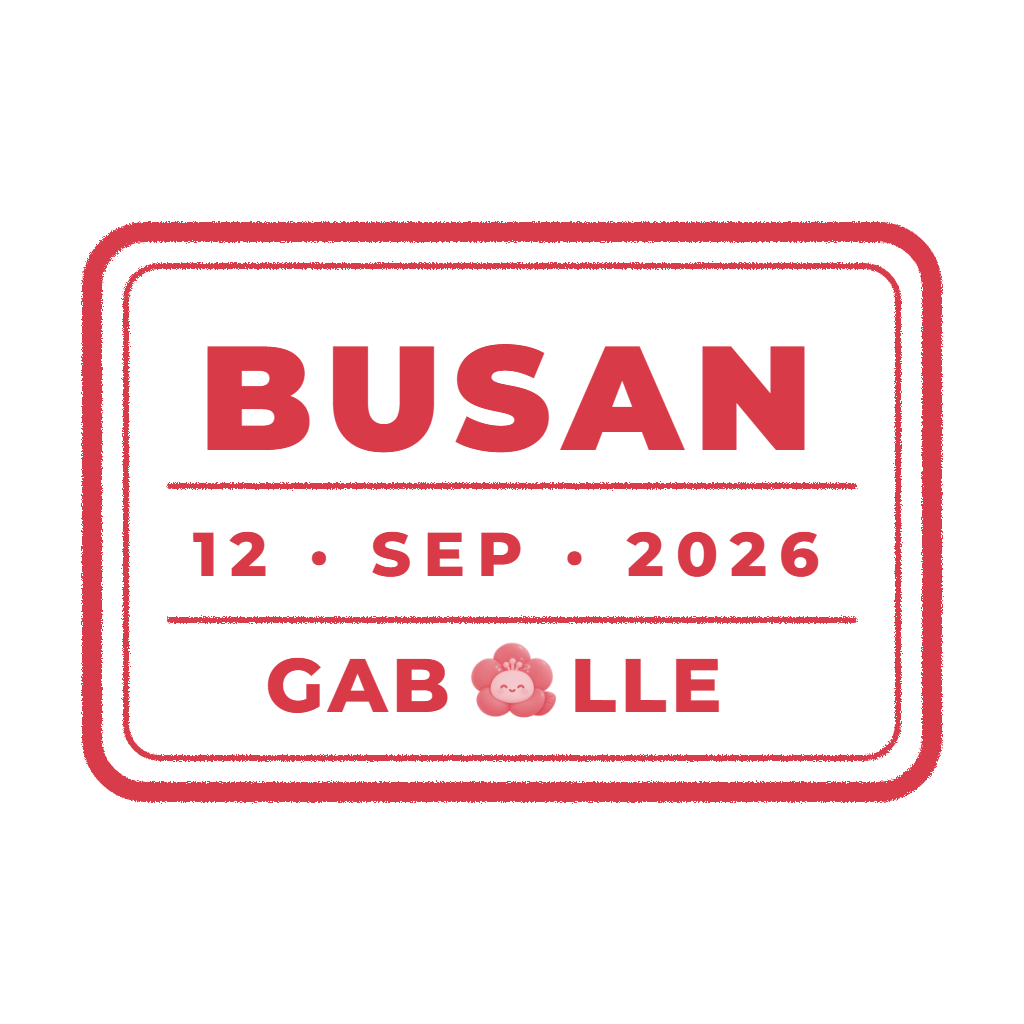
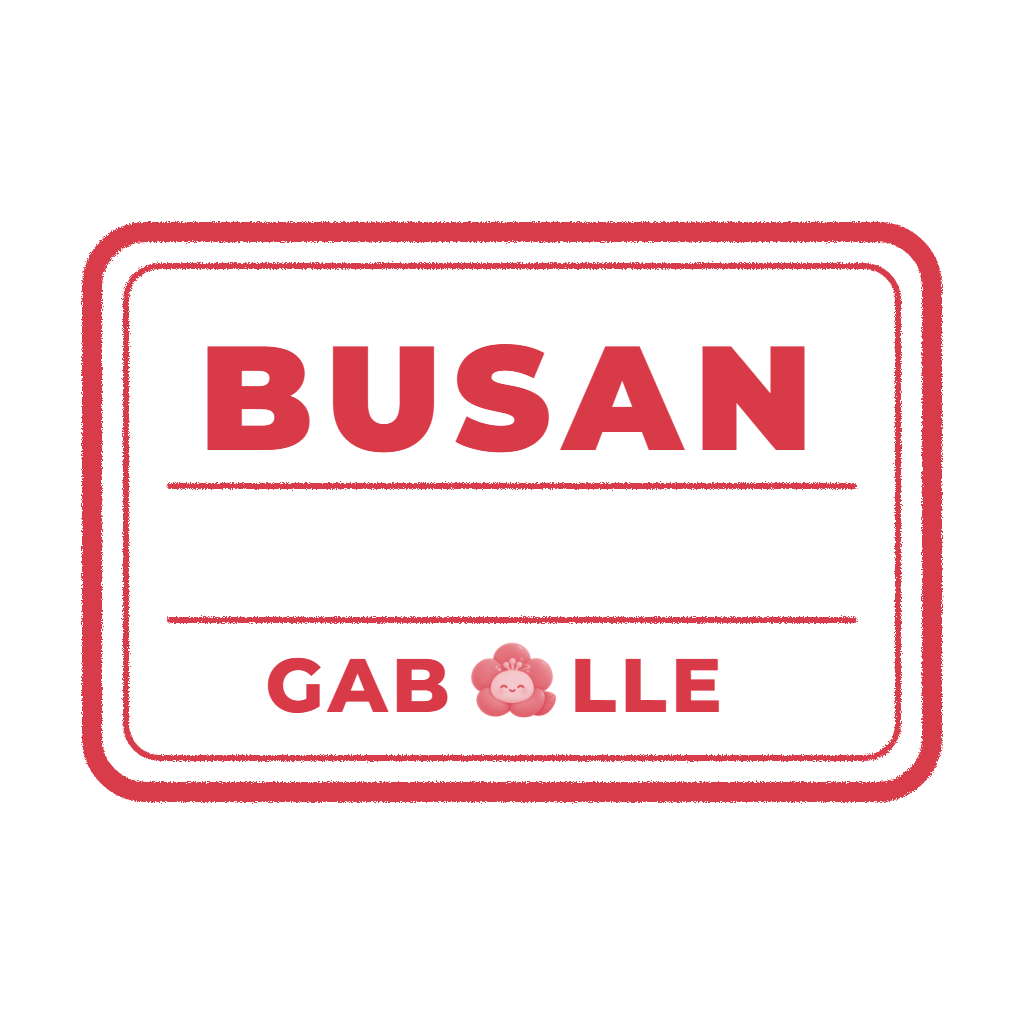
[S15P21E201-1439] fix: [FE] 실기(빌드 27·28) 결함 다섯 — 출발지 뒤로가기 중복 화면 · 시트 버튼 탐색줄 가림 · 도장 날짜 · 退会 번역 · 코치마크 겹침
- 1439 출발지를 고른 뒤 뒤로 가면 옛 문항 화면이 한 번 더 — /plan 에서 「출발지 수정」으로 홈에 왔으면
  (edit 매개변수) push 가 아니라 back 으로 왔던 /plan 에 돌아간다(폰·넓은 화면 둘 다)
- 1438 시작 바 시트의 「일정 물어보기」·「전체 삭제」가 안드로이드 3버튼 탐색줄 뒤로 절반 가림 —
  시트 아래 줄에 safe-area bottom 만큼 여백
- 1437 여행표 도장에 「12 · SEP · 2026」이 늘 찍힘 — 도장 그림(busan-arrived-stamp.png)에서 날짜를
  빼고(ticket-stamp.source.cjs 의 S2bNoDate) 빈 칸에 앱이 출발일을 찍는다(TripPassData.stampDate)
- 1440 일본어 「退会」 설명이 영어로 — 「여행, 기록, 취향이 모두 지워져요」 등 설정 화면 문구 7개 번역표에
  채움. 「기록 N」 탭도 값이 끼어든 문구라 영어로 나오던 것 → txf('기록 %s')
- 1403 첫 실행 홈 코치마크의 설명 두 덩이가 작은 폰에서 겹침 — 시작 바 설명 높이를 재서 동백이 설명 자리를
  침범하면 그 설명을 시작 바 설명 안의 한 줄로 접는다(화살표는 그대로)

확인 못 함: 1438 의 탐색줄 여백은 안드로이드 실기에서 봐야 한다(웹은 inset 0).

Changed region(s): [[0.5938, 0.5, 0.8125, 0.5625], [0.3438, 0.5, 0.5625, 0.5625], [0.1875, 0.5, 0.2812, 0.5625]]

diff --git a/frontend/src/onboarding/HomeCoach.tsx b/frontend/src/onboarding/HomeCoach.tsx
@@ -6,6 +6,7 @@
 //
 // 어두운 막에 두 구멍을 뚫는다(SVG 마스크). 구멍 자리는 홈이 실제로 잰 값(measureInWindow)이라
 // 화면 폭이 바뀌어도 맞다 — 좌표를 박아 두면 폴드 같은 기기에서 엉뚱한 곳을 가리킨다.
+import { useState } from 'react';
 import { Modal, Pressable, StyleSheet, useWindowDimensions, View } from 'react-native';
 import Svg, { Circle, Defs, Mask, Path, Rect } from 'react-native-svg';
 
@@ -29,6 +30,10 @@ export function HomeCoach({ visible, startBar, assistant, onStart, onClose }: {
 }) {
   const { tx } = useI18n();
   const { width, height } = useWindowDimensions();
+  // 🔴 두 설명 덩이는 각각 absolute 라 서로의 자리를 모른다 — 작은 폰(1080×2280)에서는 시작 바 설명이 동백이 설명 위로
+  //    100px 쯤 겹쳐 글자가 두 겹으로 읽혔다(실기 빌드 27, S15P21E201-1403). 시작 바 설명의 높이를 재서, 동백이 설명 자리를
+  //    침범하면 동백이 설명을 시작 바 설명 «안의 한 줄»로 접는다. 화살표는 그대로 단추를 가리킨다.
+  const [startCopyHeight, setStartCopyHeight] = useState(0);
   if (!visible) return null;
   const holes = [startBar, assistant].filter((hole): hole is CoachHole => Boolean(hole));
   // 시작 바 설명은 바 아래에, 동백이 설명은 단추 왼쪽 위에 — 구멍을 가리지 않는 자리.
@@ -37,6 +42,9 @@ export function HomeCoach({ visible, startBar, assistant, onStart, onClose }: {
   const ASSISTANT_COPY_GAP = 64;
   const assistantCopyBottom = assistant ? height - assistant.y + ASSISTANT_COPY_GAP : height * 0.2;
   const assistantCopyRight = assistant ? width - assistant.x - assistant.width : spacing[6];
+  const ASSISTANT_COPY_HEIGHT = 96;
+  const assistantCopyTop = height - assistantCopyBottom - ASSISTANT_COPY_HEIGHT;
+  const folded = startCopyHeight > 0 && startCopyTop + startCopyHeight + spacing[3] > assistantCopyTop;
 
   return (
     <Modal visible transparent animationType="fade" onRequestClose={onClose} statusBarTranslucent>
@@ -64,7 +72,7 @@ export function HomeCoach({ visible, startBar, assistant, onStart, onClose }: {
           ) : null}
         </Svg>
 
-        <View style={[styles.copy, { top: startCopyTop }]}>
+        <View style={[styles.copy, { top: startCopyTop }]} onLayout={(event) => setStartCopyHeight(Math.round(event.nativeEvent.layout.height))}>
           <Text variant="micro" weight="bold" color={RING} style={styles.eyebrow}>{tx('GABOLLE · 부산 전용 AI 여행 가이드', 'GABOLLE · AI travel guide just for Busan')}</Text>
           <Text variant="title" weight="bold" color={color.text.onAction} style={styles.center}>{tx('여기서 시작해요', 'Start right here')}</Text>
           <Text variant="body" color="rgba(255,255,255,0.85)" style={styles.center}>{tx('출발지·날짜·인원만 고르면 돼요. 나머지는 물어보는 만큼만 답하면 되고, 절반은 건너뛰어도 괜찮아요.', 'Just pick where you start, your dates and who is coming. Answer the rest only as much as you like — skipping half is fine.')}</Text>
@@ -76,13 +84,14 @@ export function HomeCoach({ visible, startBar, assistant, onStart, onClose }: {
               <Text variant="util" weight="bold" color="rgba(255,255,255,0.85)">{tx('먼저 둘러볼게요', 'Let me look around first')}</Text>
             </Pressable>
           </View>
+          {folded ? <Text variant="util" color="rgba(255,255,255,0.85)" style={styles.center}>{tx('궁금한 건 오른쪽 아래 동백이에게 — 어느 언어로 물어도 답해요', 'Ask Dongbaek at the bottom right — in any language')}</Text> : null}
           <Text variant="caption" color="rgba(255,255,255,0.6)" style={styles.center}>{tx('이 안내는 한 번만 떠요 · 마이페이지 › 도움말에서 다시 볼 수 있어요', 'You see this once · replay it from My page › Help')}</Text>
         </View>
 
-        <View style={[styles.assistantCopy, { bottom: assistantCopyBottom, right: assistantCopyRight + spacing[2] }]}>
+        {folded ? null : <View style={[styles.assistantCopy, { bottom: assistantCopyBottom, right: assistantCopyRight + spacing[2] }]}>
           <Text variant="title" weight="bold" color={color.text.onAction} style={styles.right}>{tx('궁금한 건 동백이에게', 'Ask Dongbaek anything')}</Text>
           <Text variant="util" color="rgba(255,255,255,0.85)" style={styles.right}>{tx('화면 어디서든 오른쪽 아래. 어느 언어로 물어도 답하고, 메뉴판 번역·통역도 여기서 열려요.', 'Always at the bottom right. Ask in any language — menu translation and interpreting open from here too.')}</Text>
-        </View>
+        </View>}
       </View>
     </Modal>
   );

diff --git a/frontend/src/i18n/translations.ts b/frontend/src/i18n/translations.ts
@@ -1094,6 +1094,7 @@ export const TRANSLATIONS: Record<string, Translation> = {
   '올리는 중…': { ja: '投稿中…', zhHans: '发布中…', zhHant: '發布中…' },
   '게시': { ja: '投稿', zhHans: '发布', zhHant: '發布' },
   '기록': { ja: '記録', zhHans: '记录', zhHant: '記錄' },
+  '기록 %s': { ja: '記録 %s', zhHans: '记录 %s', zhHant: '記錄 %s' },
   '추억 지도': { ja: '思い出マップ', zhHans: '回忆地图', zhHant: '回憶地圖' },
   '동백 마스코트': { ja: 'トンベクマスコット', zhHans: '冬柏吉祥物', zhHant: '冬柏吉祥物' },
   '아직 팔로우한 사람의 기록이 없어요': { ja: 'まだフォローした人の記録がありません', zhHans: '尚无您关注的人的记录', zhHant: '尚無您關注的人的記錄' },
@@ -1733,7 +1734,14 @@ export const TRANSLATIONS: Record<string, Translation> = {
   '변경 불가': { ja: '変更不可', zhHans: '无法更改', zhHant: '無法更改' },
   '저장 중…': { ja: '保存中…', zhHans: '保存中…', zhHant: '保存中…' },
   '저장': { ja: '保存', zhHans: '保存', zhHant: '保存' },
-  '회원 탈퇴': { ja: '退会', zhHans: '注销账户', zhHant: '註銷帳戶' },
+  '여행, 기록, 취향이 모두 지워져요': { ja: '旅行・記録・好みがすべて消えます', zhHans: '旅行、记录和偏好将全部删除', zhHant: '旅行、記錄和偏好將全部刪除' },
+  '새 기록 남기기': { ja: '新しい記録を残す', zhHans: '写一条新记录', zhHant: '寫一條新記錄' },
+  '사진 3장까지': { ja: '写真は3枚まで', zhHans: '最多3张照片', zhHant: '最多3張照片' },
+  '설정': { ja: '設定', zhHans: '设置', zhHant: '設定' },
+  '기록을 불러오지 못했어요.': { ja: '記録を読み込めませんでした。', zhHans: '无法加载记录。', zhHant: '無法載入記錄。' },
+  '전체 삭제': { ja: 'すべて消す', zhHans: '全部清除', zhHant: '全部清除' },
+  '궁금한 건 오른쪽 아래 동백이에게 — 어느 언어로 물어도 답해요': { ja: '気になることは右下のトンベクに — どの言語で聞いても答えます', zhHans: '有问题就问右下角的冬柏 — 用任何语言提问都会回答', zhHant: '有問題就問右下角的冬柏 — 用任何語言提問都會回答' },
+  '회원 탈퇴': { ja: '退会',zhHans: '注销账户', zhHant: '註銷帳戶' },
   '여행, 기록, 취향이 모두 지워지고 되돌릴 수 없어요.': { ja: '旅行、記録、好みがすべて削除され、元に戻せません。', zhHans: '您的旅行、记录和偏好都将被删除,且无法恢复。', zhHant: '您的旅行、記錄和偏好都將被刪除,且無法復原。' },
   '탈퇴하기': { ja: '退会する', zhHans: '注销', zhHant: '註銷' },
   '1 / 2 · 삭제 내용 확인': { ja: '1 / 2 ・削除内容確認', zhHans: '1 / 2 · 确认删除内容', zhHant: '1 / 2 · 確認刪除內容' },

diff --git a/frontend/src/plan/TripPass.tsx b/frontend/src/plan/TripPass.tsx
@@ -275,7 +275,11 @@ export function TripPass({ data, wide = false, onReprint, details, onOpenItinera
                   <QrCode value={data.url} size={wide ? 120 : 104} />
                 </Animated.View>
               )}
-              <Image source={stamp} resizeMode="contain" accessibilityElementsHidden importantForAccessibility="no-hide-descendants" style={[styles.stamp, wide && styles.stampWide]} />
+              {/* 🔴 날짜는 그림에 안 박혀 있다 — 「12 · SEP · 2026」이 모든 여행에 찍히던 것(실기 빌드 28, S15P21E201-1437). 빈 칸에 출발일을 앱이 찍는다. */}
+              <View accessibilityElementsHidden importantForAccessibility="no-hide-descendants" style={[styles.stamp, wide && styles.stampWide]}>
+                <Image source={stamp} resizeMode="contain" style={styles.stampImage} />
+                {data.stampDate ? <Text weight="bold" color={color.action.outline} style={[styles.stampDate, wide && styles.stampDateWide]}>{data.stampDate}</Text> : null}
+              </View>
             </View>
             <Text variant="caption" color={color.text.muted} style={styles.validText}>{data.validText}</Text>
             {!!data.code && (
@@ -427,6 +431,10 @@ const styles = StyleSheet.create({
   // 도장 — 스터브 오른쪽, QR 옆 빈 자리. 유효기간 글줄(바코드 바로 아래) 위에 얹히지 않게 그 밑에서 시작한다.
   codeRow: { flexDirection: 'row', alignItems: 'center', justifyContent: 'center', gap: spacing[4] },
   stamp: { width: 112, height: 112, transform: [{ rotate: '-8deg' }], pointerEvents: 'none' },
+  stampImage: { width: '100%', height: '100%' },
+  // 그림의 빈 띠(1024 기준 y 486~620)에 맞춘 자리 — 112px 에서는 위 53px, 글자 7px.
+  stampDate: { position: 'absolute', left: 0, right: 0, top: 53, textAlign: 'center', fontSize: 7, lineHeight: 9, letterSpacing: 1 },
+  stampDateWide: { top: 61, fontSize: 8, lineHeight: 10 },
   stampWide: { width: 128, height: 128 },
   rowBetween: { flexDirection: 'row', justifyContent: 'space-between', alignItems: 'center' },
   legRow: { flexDirection: 'row', alignItems: 'flex-end', justifyContent: 'space-between' },

diff --git a/frontend/src/home/PlanStartBar.tsx b/frontend/src/home/PlanStartBar.tsx
@@ -2,6 +2,7 @@
 // 시안: docs/design_handoff_plan_flow/PlanFlow.dc.html 의 p0.
 import { type ReactNode, useEffect, useMemo, useRef, useState } from 'react';
 import { AccessibilityInfo, ActivityIndicator, Animated, BackHandler, Easing, Platform, Pressable, ScrollView, StyleSheet, TextInput, View } from 'react-native';
+import { useSafeAreaInsets } from 'react-native-safe-area-context';
 
 import { Text } from '@/components/Text';
 import { color, radius, spacing } from '@/design/tokens';
@@ -215,6 +216,7 @@ export function PlanStartBar({
   sheet = false, value: controlledValue, onChange, onClose, onOpenSheet,
 }: PlanStartBarProps) {
   const { tx, language } = useI18n();
+  const insets = useSafeAreaInsets();
   // 🔴 「영어가 아니면 한국어」로 가르면 일본어·중국어 사용자가 한국어를 본다.
   // 그 언어들은 번역표에 없는 문구가 있으면 영어로 떨어지기로 정해져 있다
   // (resolveTextLanguage). 그 규칙을 그대로 쓴다 — S15P21E201-1296.
@@ -527,7 +529,8 @@ export function PlanStartBar({
           ))}
         </ScrollView>
 
-        <View style={styles.sheetFoot}>
+        {/* 🔴 시트는 화면 바닥까지 덮는다(absolute bottom:0) — 안드로이드 탐색줄만큼 띄우지 않으면 「일정 물어보기」가 반쯤 가린다(실기 빌드 28, S15P21E201-1438). */}
+        <View style={[styles.sheetFoot, { paddingBottom: spacing[6] + insets.bottom }]}>
           <Pressable
             onPress={() => { setValue(EMPTY_START_BAR); setSection('origin'); }}
             accessibilityRole="button"

diff --git a/frontend/src/plan/tripPassData.ts b/frontend/src/plan/tripPassData.ts
@@ -20,6 +20,8 @@ export type TripPassData = {
   endTime: string | null;
   /** 「9.20(토) – 9.21(일)」. 날짜가 없으면 null. */
   dateRange: string | null;
+  /** 도장에 찍는 출발일 「20 · SEP · 2026」. 도장 그림에는 날짜 칸이 비어 있다(S15P21E201-1437). 없으면 null. */
+  stampDate: string | null;
   /** 이동 수단 배지. 모르면 null. */
   mode: string | null;
   /** 여행자 이름. 로그인 전이면 null. */
@@ -120,6 +122,7 @@ export function buildTripPass(input: TripPassInput): TripPassData {
   const firstDate = parseDate(days[0]?.date ?? input.startDate);
   const lastDate = parseDate(days.at(-1)?.date ?? input.endDate);
 
+  const stampDate = firstDate ? `${String(firstDate.getDate()).padStart(2, '0')} · ${['JAN', 'FEB', 'MAR', 'APR', 'MAY', 'JUN', 'JUL', 'AUG', 'SEP', 'OCT', 'NOV', 'DEC'][firstDate.getMonth()]} · ${firstDate.getFullYear()}` : null;
   const dateRange = firstDate
     ? lastDate && lastDate.getTime() !== firstDate.getTime()
       ? `${formatDay(firstDate, tx)} – ${formatDay(lastDate, tx)}`
@@ -164,6 +167,7 @@ export function buildTripPass(input: TripPassInput): TripPassData {
     startTime: formatTime(allItems[0]?.startsAt),
     endTime: formatTime(allItems.at(-1)?.startsAt),
     dateRange,
+    stampDate,
     mode: modeLabel ? tx(modeLabel.ko, modeLabel.en) : null,
     owner: input.ownerName?.trim() || null,
     fields: fields.slice(0, 6),

diff --git a/frontend/app/(tabs)/home.tsx b/frontend/app/(tabs)/home.tsx
@@ -165,7 +165,10 @@ export default function Home() {
       children: value.children,
       travelers: value.adults + value.children,
     });
-    router.push('/plan');
+    // 🔴 /plan 의 「출발지 수정」으로 왔으면(edit 매개변수) 그 /plan 이 아래에 쌓여 있다 — push 하면 /plan 이 둘이 되어
+    //    뒤로 가면 출발지 없던 옛 화면이 한 번 더 나온다(실기 빌드 28, S15P21E201-1439). 왔던 화면으로 돌아간다.
+    if (editSection && router.canGoBack()) router.back();
+    else router.push('/plan');
   };
 
   // 「나중에」를 고른 사람에게는 여기서 한 번 더 묻는다. 건너뛰어도 일정은 만들 수 있다

diff --git a/frontend/app/index.tsx b/frontend/app/index.tsx
@@ -118,7 +118,10 @@ export default function Welcome() {
       children: value.children,
       travelers: value.adults + value.children,
     });
-    router.push('/plan');
+    // 🔴 /plan 의 「출발지 수정」으로 왔으면(edit 매개변수) 그 /plan 이 아래에 쌓여 있다 — push 하면 /plan 이 둘이 되어
+    //    뒤로 가면 출발지 없던 옛 화면이 한 번 더 나온다(실기 빌드 28, S15P21E201-1439). 왔던 화면으로 돌아간다.
+    if (editSection && router.canGoBack()) router.back();
+    else router.push('/plan');
   };
 
   const startPlanFromBar = (value: StartBarValue) => {

diff --git a/frontend/app/(tabs)/me.tsx b/frontend/app/(tabs)/me.tsx
@@ -343,7 +343,7 @@ export default function Me() {
           <Text weight="bold" color={meTab === key ? color.text.onAction : color.text.body} numberOfLines={1}>
             {key === 'settings'
               ? tx('설정', 'Settings')
-              : storyCount === null ? tx('기록', 'Records') : tx(`기록 ${storyCount}`, `Records ${storyCount}`)}
+              : storyCount === null ? tx('기록', 'Records') : txf(tx, '기록 %s', 'Records %s', String(storyCount))}
           </Text>
         </Pressable>
       ))}

diff --git a/frontend/src/plan/__tests__/tripPassFlip.test.tsx b/frontend/src/plan/__tests__/tripPassFlip.test.tsx
@@ -12,6 +12,7 @@ const tx = (ko: string) => ko;
 
 const data: TripPassData = {
   code: 'GB-ABC123',
+  stampDate: '20 · SEP · 2026',
   fromLabel: '부산역',
   toLabel: '광안리',
   startTime: '09:30',
